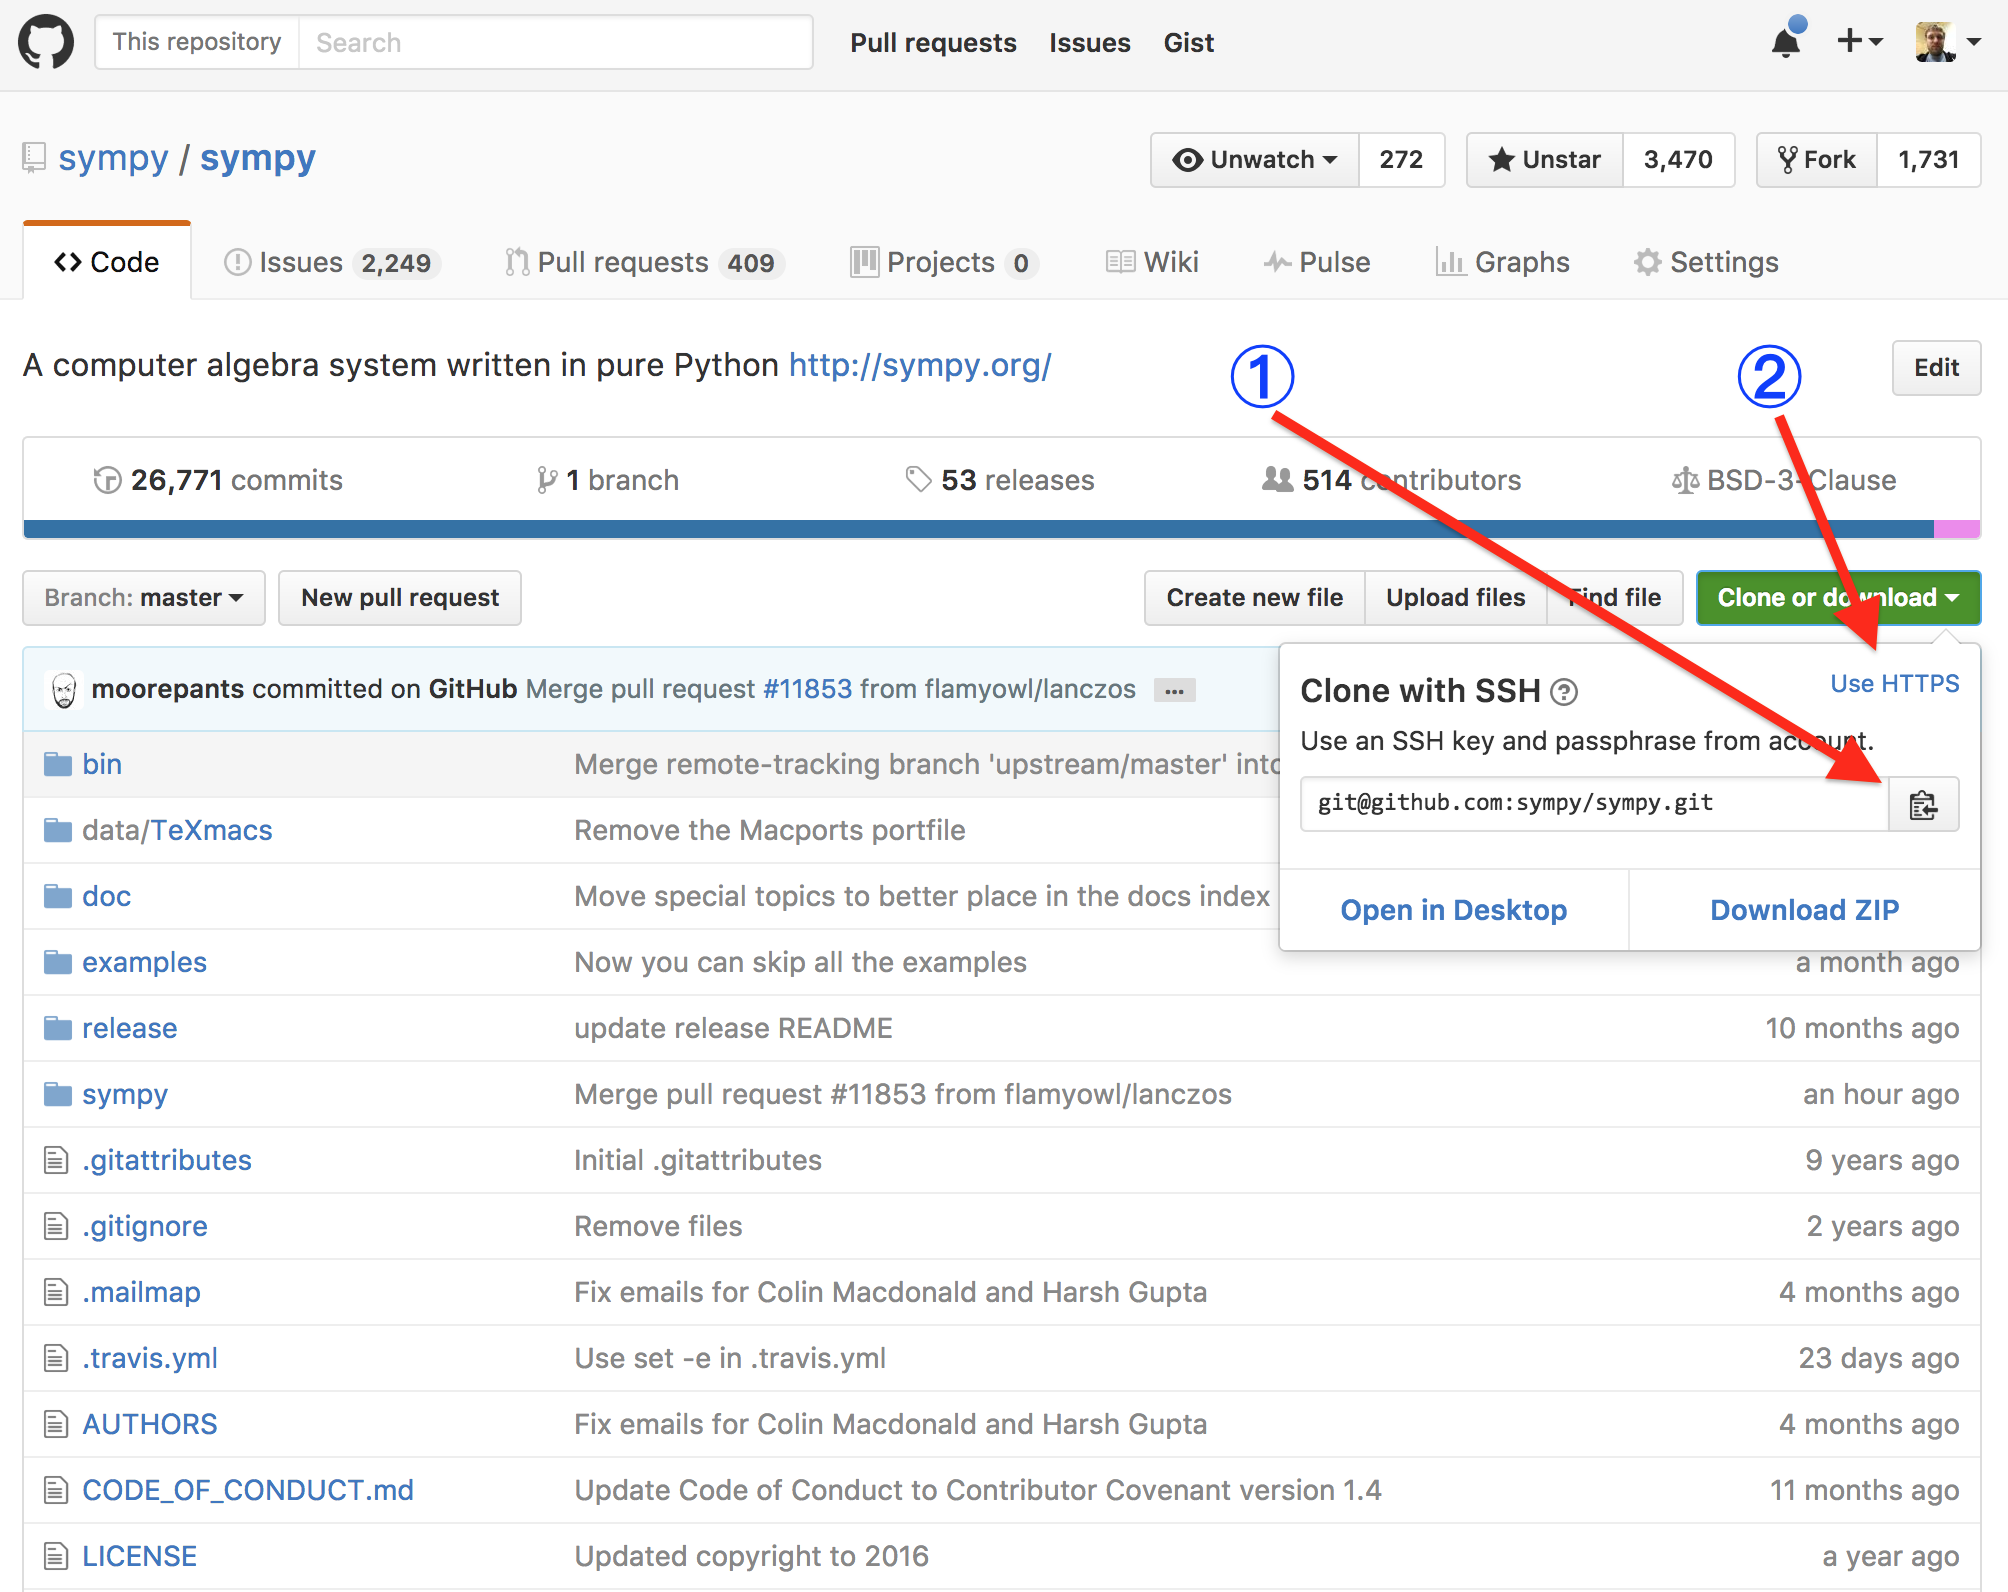
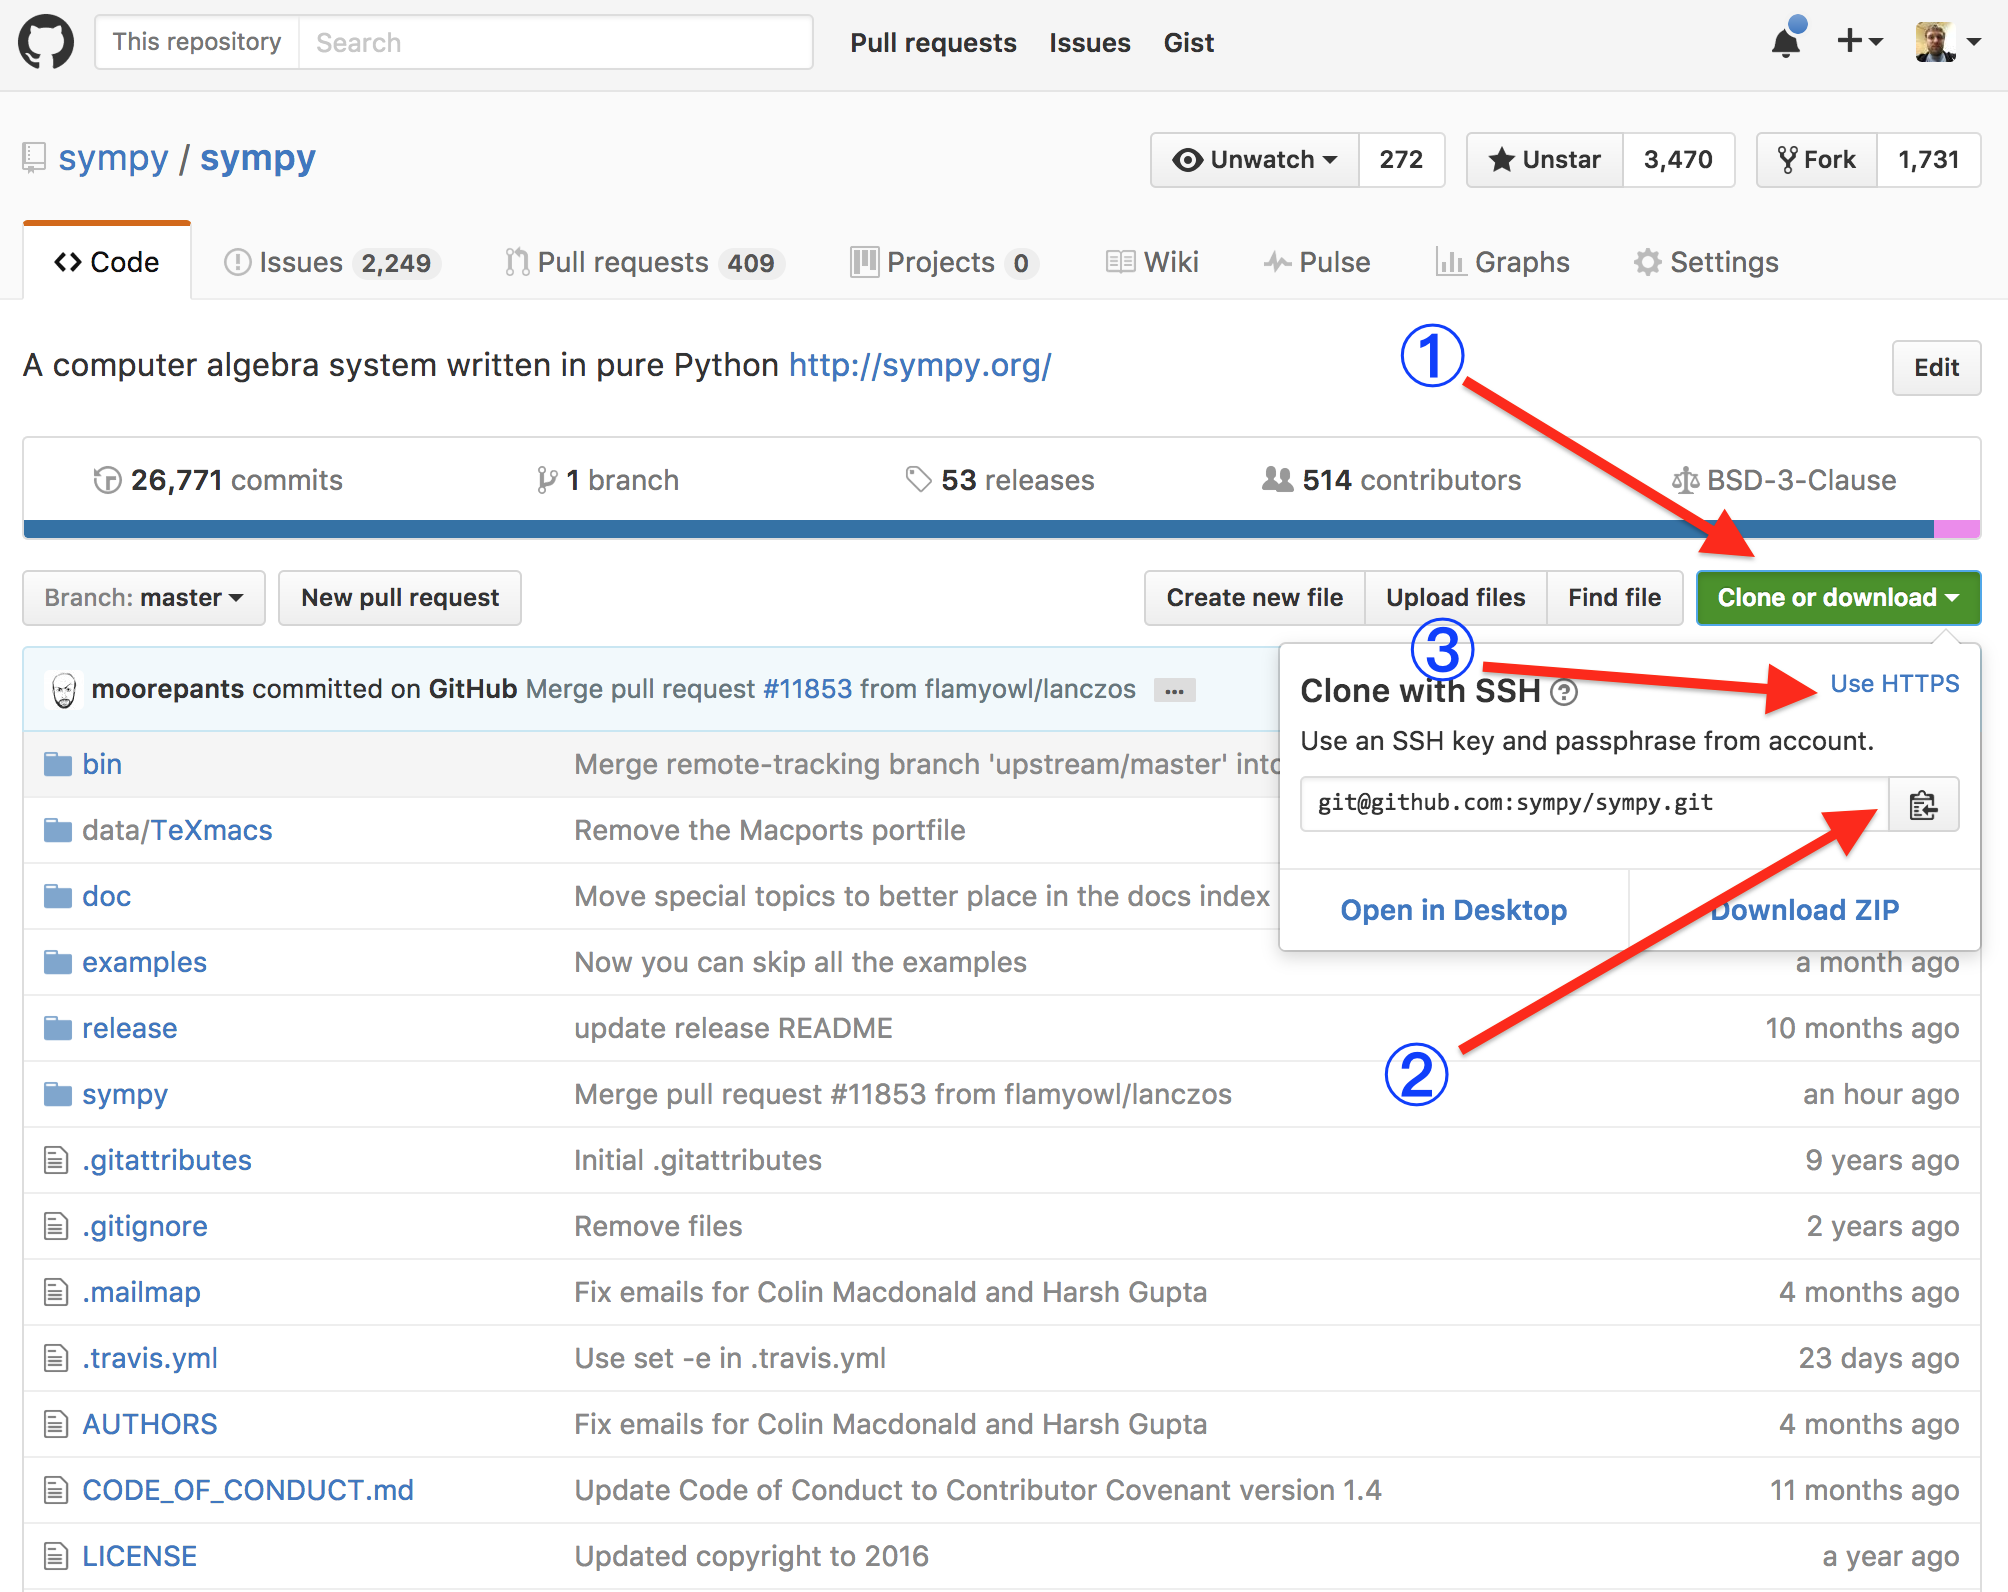
Make it clear that you need to click the green "Clone or download" button

diff --git a/README.md b/README.md
@@ -22,8 +22,9 @@ not need to repeat them, but if you contribute to
 [sympy/sympy-live](https://github.com/sympy/sympy-live) you will need to
 repeat them for that repository).**
 
-1. **Clone the repository.** Copy the url <font color="blue">①</font> and
-   type
+1. **Clone the repository.** Click the green "<font color="green">Clone or
+   download</font>" button <font color="blue">①</font>, and copy the url <font
+   color="blue">②</font> and type
 
    <code>git clone <i>clone-url</i></code>
 
@@ -31,7 +32,7 @@ repeat them for that repository).**
    your clipboard. For sympy/sympy, it will be
    `git@github.com:sympy/sympy.git`. If you have not set up your ssh keys with
    GitHub, use the https url by first clicking the `https` button <font
-   color="blue">②</font>.
+   color="blue">③</font>.
 
    ![clone.png](clone.png)
 
